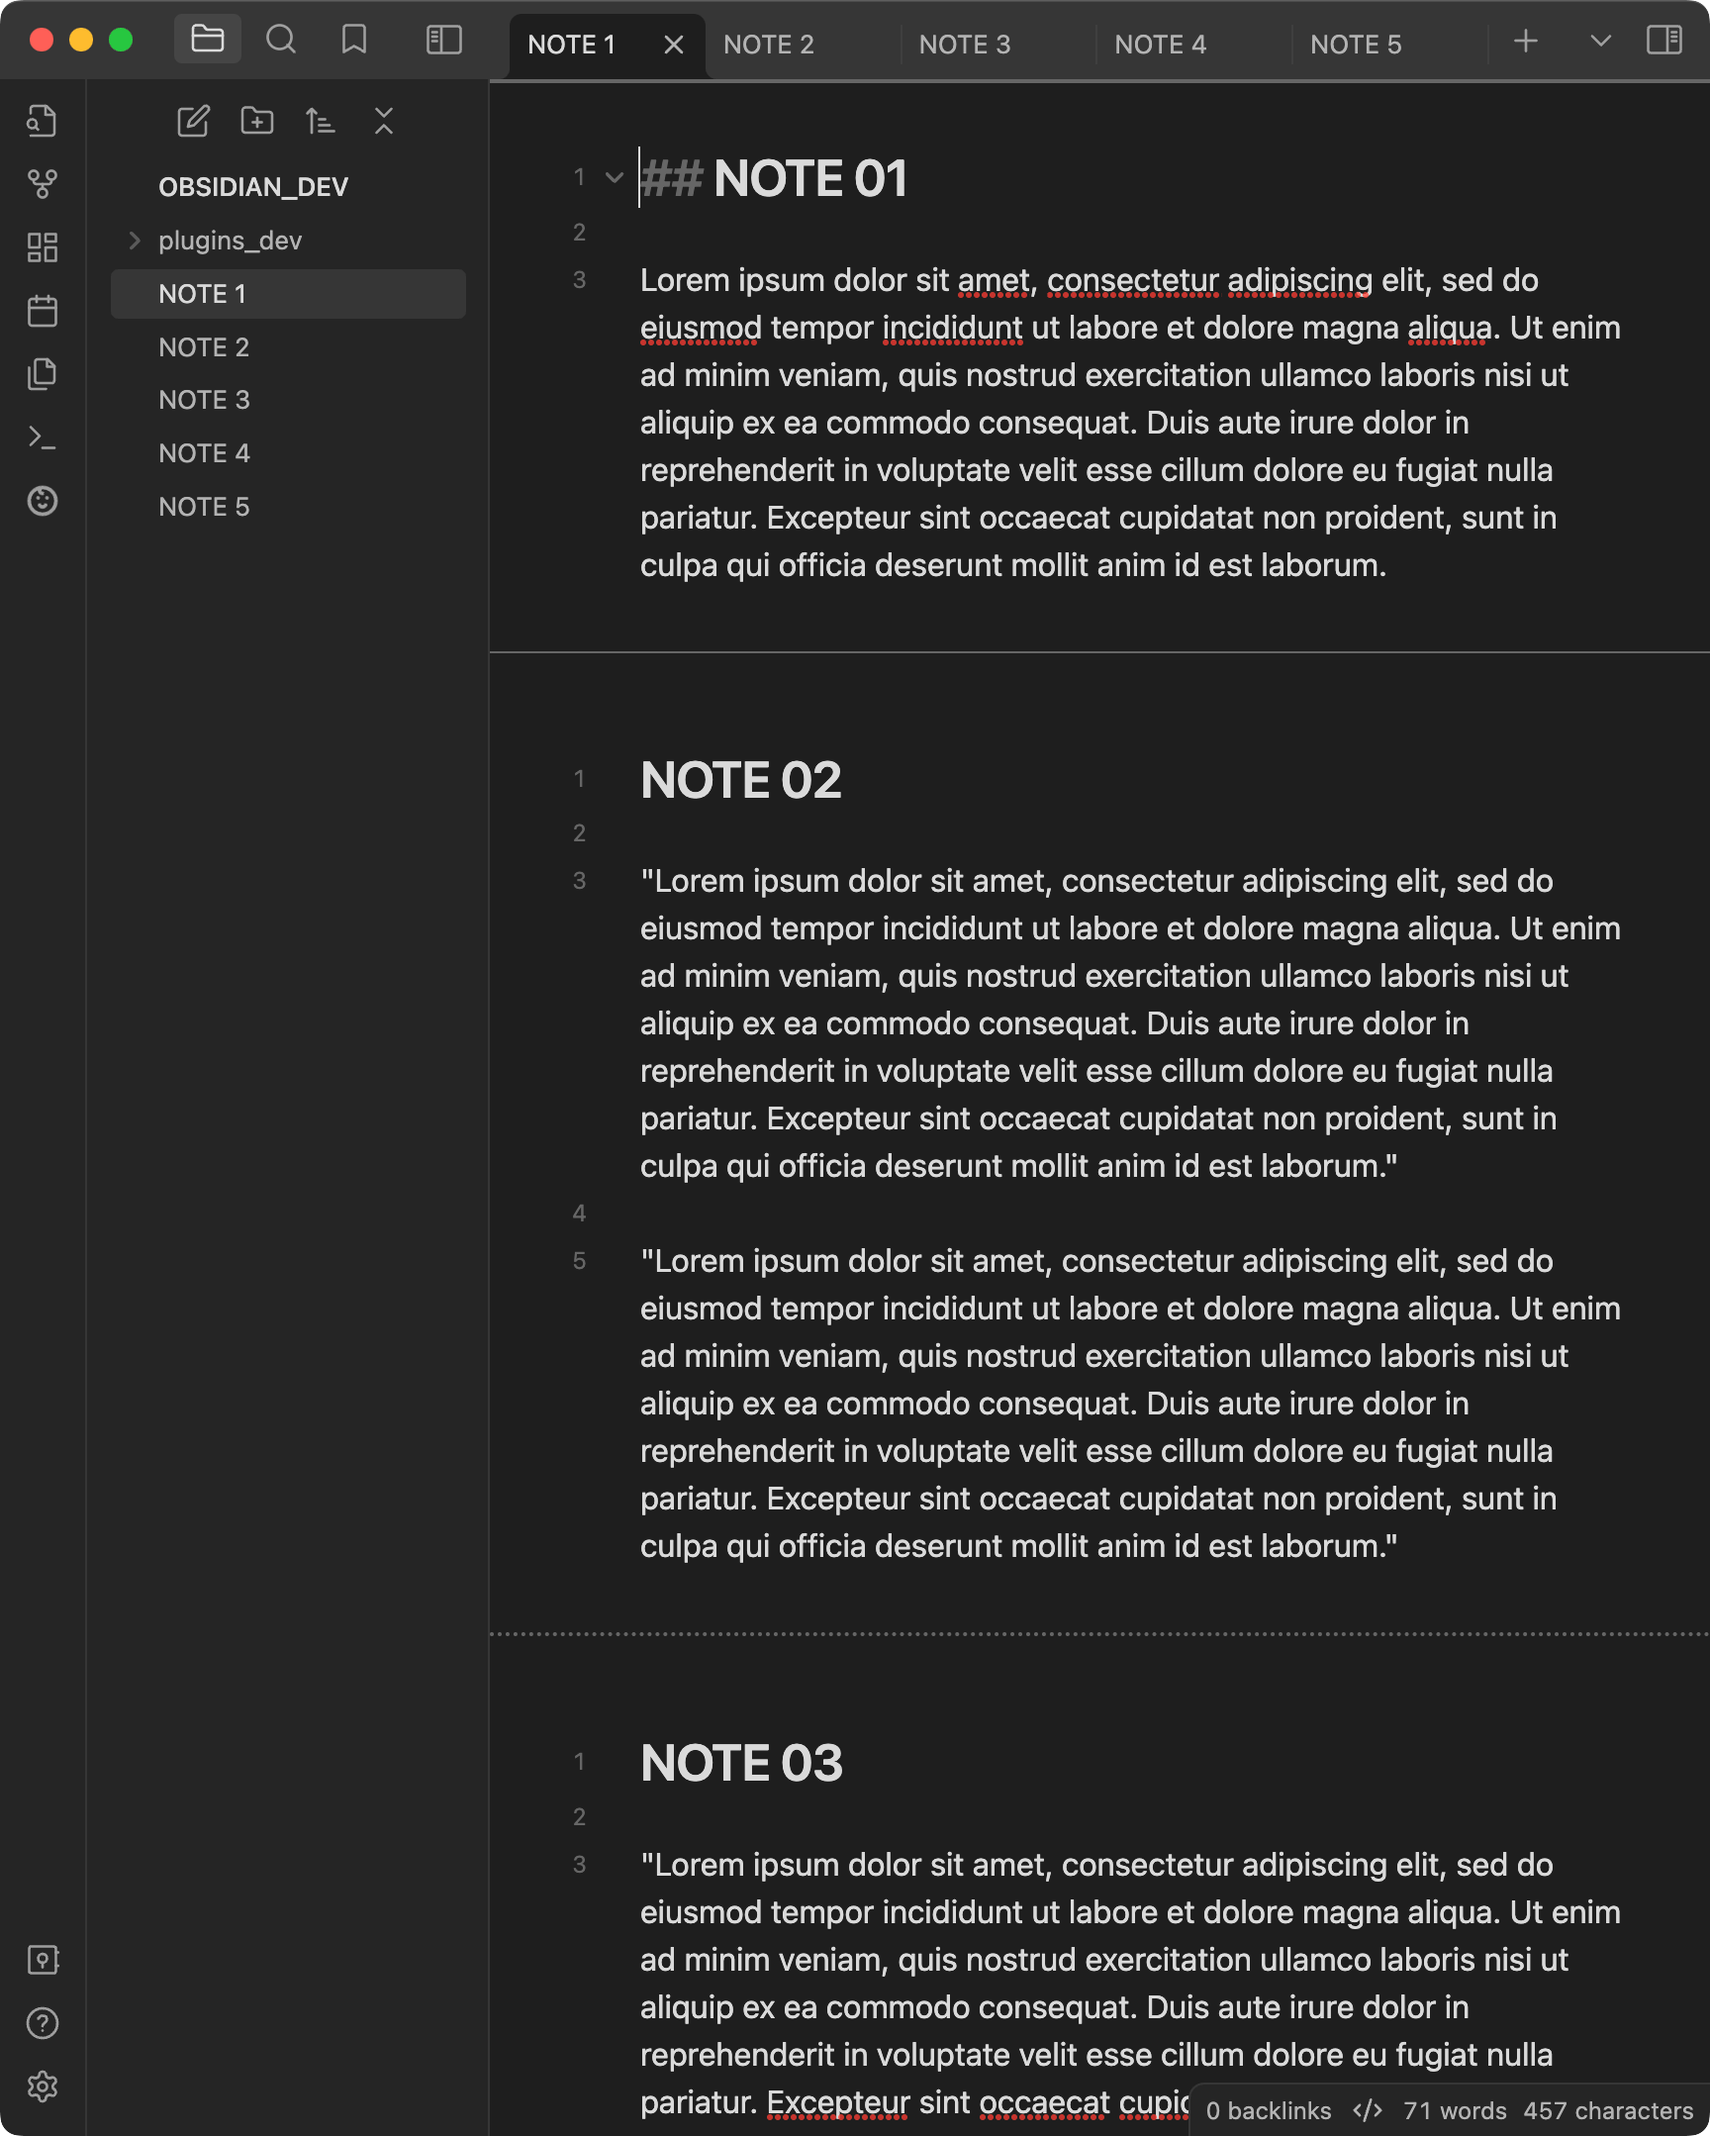
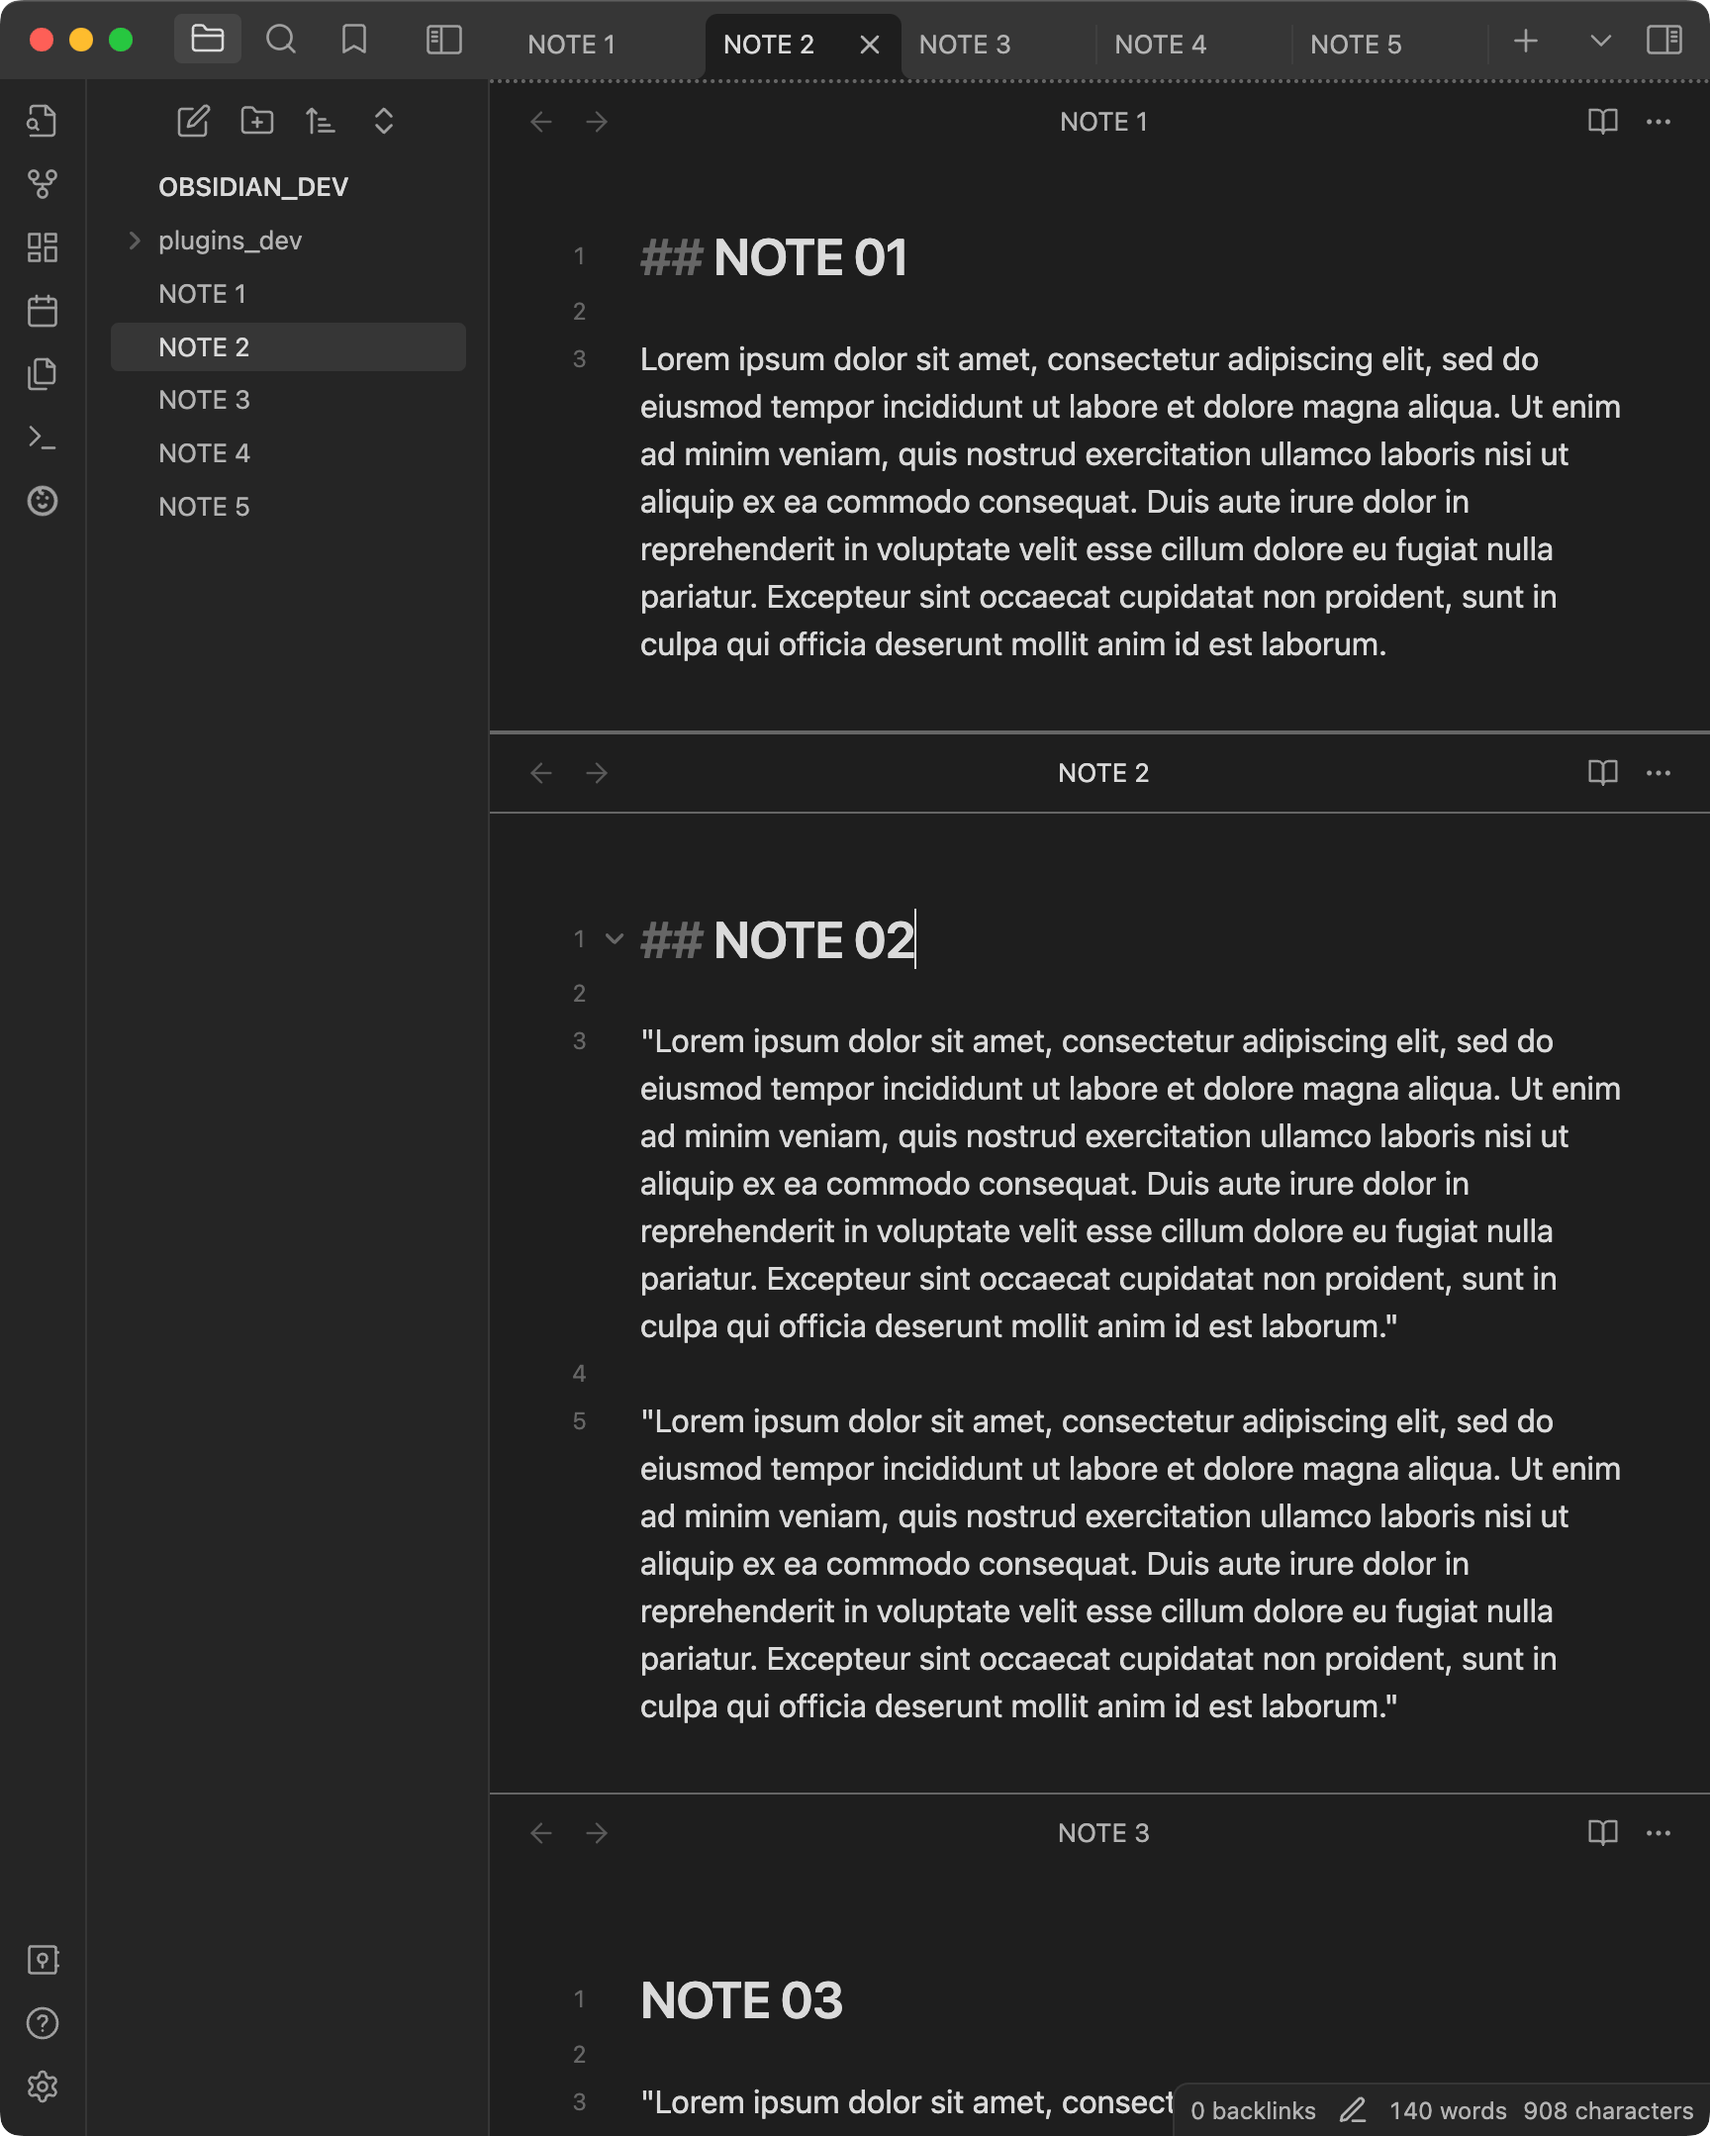
Added screenshots

diff --git a/README.md b/README.md
@@ -9,10 +9,15 @@ Displays all open notes (“leaves”) in a tab group as a continuous scrollable
  - Navigate between notes with arrow keys.
  - Reorder notes via tab drag-and-drop.
  - Show/hide note headers in active tab group from command palette to create a more "seamless" experience.
- 
+
+Tab group with multiple notes open.
 ![<# alt text #>](assets/before.png "before.png")
 
+Continuous mode active.
 ![<# alt text #>](assets/after.png "after.png")
+
+Continuous mode with headers hidden.
+![<# alt text #>](assets/after-no-headers.png "after-no-headers.png")
 
 ### Buy me a coffee:
 
